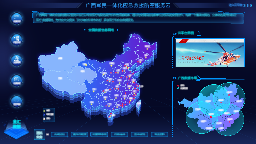
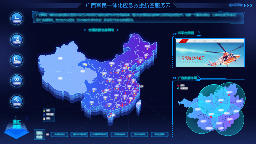
航空服务云轮播图修改

diff --git a/hangkongfuwu.html b/hangkongfuwu.html
@@ -46,24 +46,24 @@
                         expandWidth: {
                             property: "width",
                             from: circle1.getWidth(), 
-                            to: circle1.getWidth() - 50,
+                            to: circle1.getWidth() - 30,
                             next: "collapseWidth"
                         },
                         collapseWidth: {
                             property: "width",
-                            from: circle1.getWidth() - 50, 
+                            from: circle1.getWidth() - 30, 
                             to: circle1.getWidth(),
                             next: "expandWidth"
                         },
                         expandHeight: {
                             property: "height",
                             from: circle1.getHeight(), 
-                            to: circle1.getHeight() - 50,
+                            to: circle1.getHeight() - 30,
                             next: "collapseHeight"
                         },
                         collapseHeight: {
                             property: "height",
-                            from: circle1.getHeight() - 50, 
+                            from: circle1.getHeight() - 30, 
                             to: circle1.getHeight(),
                             next: "expandHeight"
                         },
@@ -73,24 +73,24 @@
                         expandWidth: {
                             property: "width",
                             from: circle2.getWidth(), 
-                            to: circle2.getWidth() - 50,
+                            to: circle2.getWidth() - 30,
                             next: "collapseWidth"
                         },
                         collapseWidth: {
                             property: "width",
-                            from: circle2.getWidth() - 50, 
+                            from: circle2.getWidth() - 30, 
                             to: circle2.getWidth(),
                             next: "expandWidth"
                         },
                         expandHeight: {
                             property: "height",
                             from: circle2.getHeight(), 
-                            to: circle2.getHeight() - 50,
+                            to: circle2.getHeight() - 30,
                             next: "collapseHeight"
                         },
                         collapseHeight: {
                             property: "height",
-                            from: circle2.getHeight() - 50, 
+                            from: circle2.getHeight() - 30, 
                             to: circle2.getHeight(),
                             next: "expandHeight"
                         },
@@ -100,24 +100,24 @@
                         expandWidth: {
                             property: "width",
                             from: circle3.getWidth(), 
-                            to: circle3.getWidth() - 50,
+                            to: circle3.getWidth() - 30,
                             next: "collapseWidth"
                         },
                         collapseWidth: {
                             property: "width",
-                            from: circle3.getWidth() - 50, 
+                            from: circle3.getWidth() - 30, 
                             to: circle3.getWidth(),
                             next: "expandWidth"
                         },
                         expandHeight: {
                             property: "height",
                             from: circle3.getHeight(), 
-                            to: circle3.getHeight() - 50,
+                            to: circle3.getHeight() - 30,
                             next: "collapseHeight"
                         },
                         collapseHeight: {
                             property: "height",
-                            from: circle3.getHeight() - 50, 
+                            from: circle3.getHeight() - 30, 
                             to: circle3.getHeight(),
                             next: "expandHeight"
                         },
@@ -127,24 +127,24 @@
                         expandWidth: {
                             property: "width",
                             from: circle4.getWidth(), 
-                            to: circle4.getWidth() - 50,
+                            to: circle4.getWidth() - 30,
                             next: "collapseWidth"
                         },
                         collapseWidth: {
                             property: "width",
-                            from: circle4.getWidth() - 50, 
+                            from: circle4.getWidth() - 30, 
                             to: circle4.getWidth(),
                             next: "expandWidth"
                         },
                         expandHeight: {
                             property: "height",
                             from: circle4.getHeight(), 
-                            to: circle4.getHeight() - 50,
+                            to: circle4.getHeight() - 30,
                             next: "collapseHeight"
                         },
                         collapseHeight: {
                             property: "height",
-                            from: circle4.getHeight() - 50, 
+                            from: circle4.getHeight() - 30, 
                             to: circle4.getHeight(),
                             next: "expandHeight"
                         },
@@ -154,24 +154,24 @@
                         expandWidth: {
                             property: "width",
                             from: circle5.getWidth(), 
-                            to: circle5.getWidth() - 50,
+                            to: circle5.getWidth() - 30,
                             next: "collapseWidth"
                         },
                         collapseWidth: {
                             property: "width",
-                            from: circle5.getWidth() - 50, 
+                            from: circle5.getWidth() - 30, 
                             to: circle5.getWidth(),
                             next: "expandWidth"
                         },
                         expandHeight: {
                             property: "height",
                             from: circle5.getHeight(), 
-                            to: circle5.getHeight() - 50,
+                            to: circle5.getHeight() - 30,
                             next: "collapseHeight"
                         },
                         collapseHeight: {
                             property: "height",
-                            from: circle5.getHeight() - 50, 
+                            from: circle5.getHeight() - 30, 
                             to: circle5.getHeight(),
                             next: "expandHeight"
                         },
@@ -208,13 +208,33 @@
                     }
                 }
 
-                function imgAni(dm){
-                    const slide = dm.getDataByTag('slide_block')
-                    setInterval(() => {
-                        var slideBeforeOffset = slide.a('offset')
-                        slide.a('offset',slideBeforeOffset-1)
-                    },10);
+                // this.timer2 = setTimeout(() => {
+                //         console.log('timeout')
+                //         count = 0;
+                //         // clearInterval()
+                //         timer1();
+                // }, 2000);
+                function timer2() {
+                    setTimeout(() => {
+                        count = 0;
+                        // clearInterval()
+                        imgAni(dataModel)
+                    }, 2000);
                 }
+                function imgAni(dm) {
+                    const slide = dm.getDataByTag('slide_block');
+                    var count = 0;
+                    timer1 = setInterval(() => {
+                        if(count === 510){
+                            clearInterval(timer1)
+                            timer2();
+                        }
+                        count++;
+                        var slideBeforeOffset = slide.a('offset');
+                        slide.a('offset',slideBeforeOffset-1);
+                    },10);   
+                }
+
             }
 
             
